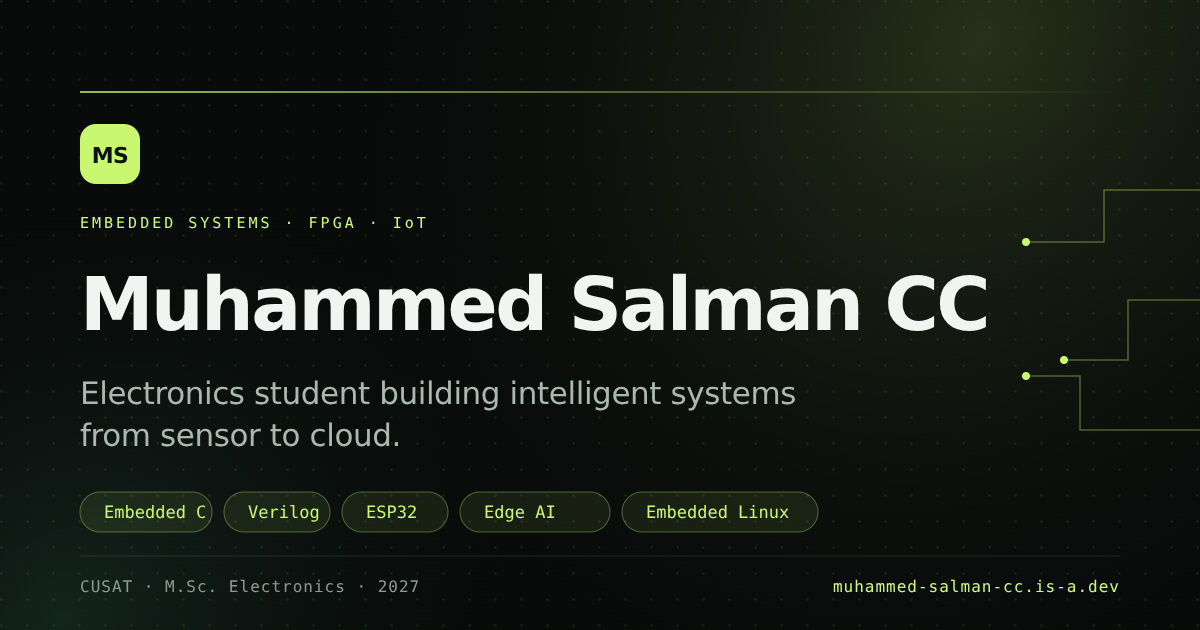
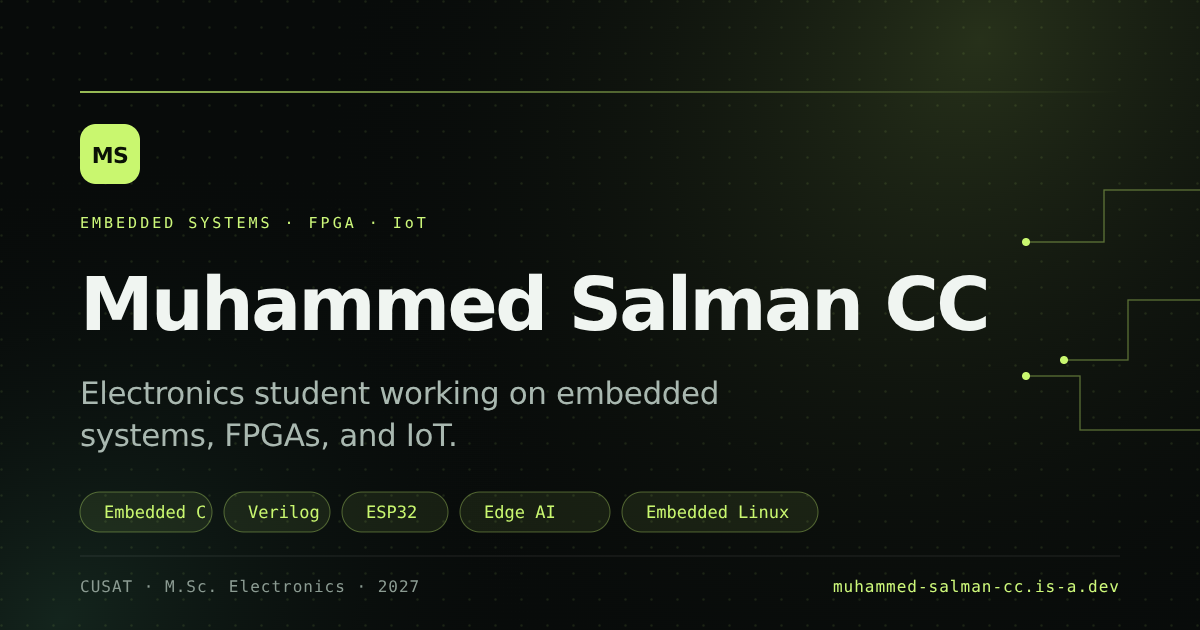
Rewrite copy in plain language and remove em dashes
- Replace every em and en dash in page copy, metadata, artwork, and docs
- Drop marketing adjectives (intelligent, robust, editorial, at-a-glance) in favour of concrete descriptions
- Rewrite hero, section headings, project and experience summaries, and contact copy so they state facts directly
- Fix hero headline underline so it no longer draws a stray line under the preceding words

Changed region(s): [[0.0617, 0.6032, 0.6783, 0.7238]]

diff --git a/src/data/portfolio.ts b/src/data/portfolio.ts
@@ -45,16 +45,16 @@ export const portfolio = {
   phone: '+91 9746707833',
   availability: 'Open to embedded systems opportunities',
   intro:
-    'I design intelligent electronic systems where hardware, firmware, and connected technology work together.',
+    'I work on both sides of a project: sensor front ends, power switching, and the firmware that runs them.',
   profileImage: 'https://i.postimg.cc/k4NKMqzp/file-00000000b38c71f5be0b8b69186cc8e1.png',
   about: [
     'I’m Salman, an M.Sc. Electronics student at Cochin University of Science and Technology, focused on embedded systems, FPGA design, robotics, IoT, and Embedded Linux.',
-    'I enjoy taking ideas from circuit architecture to working firmware—interfacing sensors, controlling power electronics, and building connected systems that solve practical engineering problems.',
-    'My goal is to become an Embedded Systems Engineer specializing in intelligent hardware, Edge AI, FPGA-based systems, and open-source technologies.',
+    'I like taking an idea from circuit architecture to working firmware: interfacing sensors, controlling power electronics, and building systems that solve a practical problem.',
+    'I want to work as an embedded systems engineer, with a focus on Edge AI, FPGA-based systems, and open-source tools.',
   ],
   currentlyExploring: {
     label: 'Currently exploring',
-    body: 'FPGA-based vision pipelines for autonomous robots, and running lightweight inference at the edge.',
+    body: 'How vision pipelines are built on FPGAs for autonomous robots, and how small models run on edge devices.',
     tags: ['Verilog', 'Vivado', 'Edge AI'],
   },
   focusAreas: [
@@ -73,7 +73,7 @@ export const portfolio = {
       icon: 'graduation',
     },
     {
-      label: 'Recognition',
+      label: 'Award',
       value: 'District-level YIP Winner',
       meta: 'Auto hibernate for inverters',
       icon: 'award',
@@ -145,11 +145,11 @@ export const portfolio = {
       label: 'Embedded Systems',
       badge: 'District-level YIP Winner',
       description:
-        'An intelligent inverter battery-management system that disconnects lower-priority AC loads according to battery voltage, extending backup time and protecting batteries from deep discharge.',
+        'An inverter controller that reads battery voltage and sheds lower-priority AC loads before the battery drains. Backup time goes up and deep discharge is avoided.',
       impact: [
-        'Designed the complete hardware and control architecture',
+        'Designed the hardware and control architecture',
         'Built priority-based load logic with configurable thresholds',
-        'Implemented real-time voltage, current, and LCD monitoring',
+        'Added live voltage, current, and LCD readouts',
       ],
       tags: ['Arduino Nano', 'Embedded C', 'ZMPT101B', 'ACS712', 'Relay', '16×2 LCD'],
       image: 'https://i.postimg.cc/mZ6B2DFh/file-00000000bda0722fb460db042afe0207.png',
@@ -158,7 +158,7 @@ export const portfolio = {
       title: 'Smart IoT Energy Meter',
       label: 'Internet of Things',
       description:
-        'A connected energy-monitoring system for remotely tracking electrical usage through cloud dashboards.',
+        'An energy meter that sends voltage and current readings to cloud dashboards, so usage can be checked remotely.',
       impact: [
         'Voltage and current sensing',
         'Remote dashboards with Blynk and ThingSpeak',
@@ -170,11 +170,11 @@ export const portfolio = {
       title: 'Smart TENS Jacket',
       label: 'Healthcare IoT',
       description:
-        'An IoT-enabled wearable integrating TENS therapy with physiological monitoring and GSM communication.',
+        'A wearable that combines TENS therapy with heart-rate monitoring and GSM alerts for the wearer.',
       impact: [
         'Wearable therapeutic electronics',
         'Heart-rate and motion monitoring',
-        'GSM-based alerts and communication',
+        'GSM alerts and messaging',
       ],
       tags: ['Arduino Micro', 'SIM800', 'Heart Rate Sensor', 'Accelerometer', 'TENS'],
     },
@@ -185,7 +185,7 @@ export const portfolio = {
       title: 'IoT Intern',
       org: 'Sparkiit',
       description:
-        'Hands-on development with ESP32, NodeMCU, embedded programming, sensor interfacing, and IoT communication.',
+        'Worked with ESP32 and NodeMCU boards, wrote firmware, and connected sensors to IoT services.',
       tags: ['ESP32', 'NodeMCU', 'Sensor Interfacing', 'IoT'],
       kind: 'work',
     },
@@ -194,7 +194,7 @@ export const portfolio = {
       title: 'FPGA-Based Vision Processing',
       org: 'For Autonomous Robots',
       description:
-        'Exploring FPGA architecture, computer vision, robotics, hardware acceleration, and autonomous systems.',
+        'Seminar on FPGA architecture and vision processing for autonomous robots, including where hardware acceleration helps.',
       tags: ['Verilog', 'FPGA', 'Computer Vision', 'Robotics'],
       kind: 'research',
     },
@@ -203,7 +203,7 @@ export const portfolio = {
       title: 'Content Creator',
       org: 'AiCoN Tech Hub',
       description:
-        'Creating accessible educational content about AI, Linux, programming, cybersecurity, open source, and developer tools.',
+        'I make educational videos and posts about AI, Linux, programming, cybersecurity, and open-source tools.',
       tags: ['AI', 'Linux', 'Open Source', 'Education'],
       kind: 'community',
     },

diff --git a/index.html b/index.html
@@ -29,29 +29,29 @@
         background: #f2f1ea;
       }
     </style>
-    <meta name="description" content="Muhammed Salman CC is an M.Sc. Electronics student focused on embedded systems, IoT, FPGA design, robotics, Embedded Linux, and intelligent hardware." />
+    <meta name="description" content="Muhammed Salman CC is an M.Sc. Electronics student at CUSAT working on embedded systems, FPGA design, IoT, and Embedded Linux." />
     <meta name="author" content="Muhammed Salman CC" />
     <meta name="robots" content="index, follow, max-image-preview:large" />
 
     <meta property="og:type" content="website" />
-    <meta property="og:site_name" content="Muhammed Salman CC — Portfolio" />
+    <meta property="og:site_name" content="Muhammed Salman CC Portfolio" />
     <meta property="og:url" content="https://muhammed-salman-cc.is-a.dev/" />
-    <meta property="og:title" content="Muhammed Salman CC — Embedded Systems & Electronics" />
-    <meta property="og:description" content="Electronics student building embedded systems, IoT devices, and intelligent hardware with Arduino, ESP32, FPGA, and Linux." />
+    <meta property="og:title" content="Muhammed Salman CC | Embedded Systems and Electronics" />
+    <meta property="og:description" content="Electronics student building embedded systems and IoT devices with Arduino, ESP32, FPGAs, and Linux." />
     <meta property="og:image" content="https://muhammed-salman-cc.is-a.dev/og-image.png" />
     <meta property="og:image:width" content="1200" />
     <meta property="og:image:height" content="630" />
     <meta property="og:image:alt" content="Muhammed Salman CC, Electronics and Embedded Systems" />
 
     <meta name="twitter:card" content="summary_large_image" />
-    <meta name="twitter:title" content="Muhammed Salman CC — Embedded Systems & Electronics" />
-    <meta name="twitter:description" content="Electronics student building embedded systems, IoT devices, and intelligent hardware with Arduino, ESP32, FPGA, and Linux." />
+    <meta name="twitter:title" content="Muhammed Salman CC | Embedded Systems and Electronics" />
+    <meta name="twitter:description" content="Electronics student building embedded systems and IoT devices with Arduino, ESP32, FPGAs, and Linux." />
     <meta name="twitter:image" content="https://muhammed-salman-cc.is-a.dev/og-image.png" />
 
     <link rel="icon" type="image/svg+xml" href="/favicon.svg" />
     <link rel="manifest" href="/site.webmanifest" />
     <link rel="canonical" href="https://muhammed-salman-cc.is-a.dev/" />
-    <title>Muhammed Salman CC — Embedded Systems & Electronics</title>
+    <title>Muhammed Salman CC | Embedded Systems and Electronics</title>
 
     <script type="application/ld+json">
       {

diff --git a/src/components/Footer.tsx b/src/components/Footer.tsx
@@ -17,7 +17,7 @@ export function Footer() {
       <div className="container">
         <div className="footer-top">
           <div className="footer-brand">
-            <a className="brand" href="#top" aria-label={`${portfolio.name} — back to top`}>
+            <a className="brand" href="#top" aria-label={`${portfolio.name}, back to top`}>
               <span className="brand-mark" aria-hidden="true">
                 MS
               </span>
@@ -25,7 +25,7 @@ export function Footer() {
                 <span className="brand-name">{portfolio.name}</span>
               </span>
             </a>
-            <p>Electronics student building intelligent systems from sensor to cloud.</p>
+            <p>Electronics student in Kerala. Embedded systems, FPGA design, and IoT.</p>
           </div>
 
           <nav className="footer-nav" aria-label="Footer">
@@ -67,7 +67,7 @@ export function Footer() {
           <p>
             © {new Date().getFullYear()} {portfolio.name}
           </p>
-          <p className="footer-note">Designed &amp; built with React · TypeScript · Vite</p>
+          <p className="footer-note">Built with React, TypeScript, and Vite</p>
           <a href="#top">
             Back to top
             <ArrowUp size={13} aria-hidden="true" />

diff --git a/src/components/Hero.tsx b/src/components/Hero.tsx
@@ -21,7 +21,7 @@ export function Hero() {
           <p className="hero-kicker intro intro-1">Hello, I’m {portfolio.preferredName}.</p>
 
           <h1 id="hero-title" className="intro intro-2">
-            Building smarter systems, <em>one circuit at a time.</em>
+            I build the circuits. <em>I write the firmware.</em>
           </h1>
 
           <p className="hero-copy intro intro-3">{portfolio.intro}</p>
@@ -103,10 +103,10 @@ export function Hero() {
           <span className="scroll-cue-icon" aria-hidden="true">
             <ArrowDown size={14} />
           </span>
-          Scroll to explore
+          Scroll for more
         </a>
         <p className="hero-note" aria-hidden="true">
-          // analog · digital · firmware · cloud
+          Analog · digital · firmware
         </p>
       </div>
     </section>

diff --git a/src/components/Contact.tsx b/src/components/Contact.tsx
@@ -18,12 +18,12 @@ export function Contact() {
             </p>
 
             <h2 id="contact-title">
-              Let’s engineer something <em>meaningful.</em>
+              Let’s build something <em>that works.</em>
             </h2>
 
             <p className="contact-lede">
-              Open to embedded systems opportunities, technical collaborations, and research conversations. The
-              fastest way to reach me is email — I usually reply within a day.
+              I’m open to embedded systems roles, collaborations, and research conversations. Email is the
+              fastest way to reach me, and I usually reply within a day.
             </p>
 
             <div className="contact-actions">

diff --git a/src/components/Projects.tsx b/src/components/Projects.tsx
@@ -35,8 +35,8 @@ export function Projects() {
           id="projects-title"
           index="03"
           label="Selected work"
-          title="Systems built for the real world."
-          lede="Three builds spanning power electronics, connected metering, and wearable healthcare — each taken from circuit design to working firmware."
+          title="Projects that had to work outside the lab."
+          lede="A battery-saving inverter controller, a cloud-connected energy meter, and a wearable therapy jacket. Each one went from schematic to working firmware."
         />
 
         <div className="project-grid">

diff --git a/src/components/About.tsx b/src/components/About.tsx
@@ -7,7 +7,7 @@ export function About() {
     <section id="about" className="section" aria-labelledby="about-title">
       <div className="container split">
         <div className="about-aside">
-          <SectionHeading id="about-title" index="01" label="Profile" title="Electronics first. Always curious." />
+          <SectionHeading id="about-title" index="01" label="Profile" title="Electronics student at CUSAT." />
           <aside className="explore-card reveal" aria-label="Currently exploring">
             <div className="explore-head">
               <Telescope size={15} aria-hidden="true" />

diff --git a/src/components/Skills.tsx b/src/components/Skills.tsx
@@ -13,8 +13,8 @@ export function Skills() {
           id="skills-title"
           index="02"
           label="Technical stack"
-          title="Hardware-minded, software-capable."
-          lede="From firmware and RTL to PCB layout and connected dashboards — a toolkit that crosses the hardware/software boundary."
+          title="The tools I work with."
+          lede="Firmware, RTL, PCB layout, and dashboards. I work on both the hardware and software sides of a project."
         />
 
         <div className="skills-grid">

diff --git a/src/components/Education.tsx b/src/components/Education.tsx
@@ -11,8 +11,8 @@ export function Education() {
           id="education-title"
           index="05"
           label="Education"
-          title="A foundation in electronics."
-          lede="Formal training in analog, digital, and embedded systems — now focused on intelligent hardware and FPGA design."
+          title="Where I studied."
+          lede="Coursework in analog, digital, and embedded systems, now pointed at FPGA design."
         />
 
         <div className="education-grid">

diff --git a/src/components/Experience.tsx b/src/components/Experience.tsx
@@ -17,8 +17,8 @@ export function Experience() {
           id="experience-title"
           index="04"
           label="Experience"
-          title="Learning through engineering."
-          lede="Internships, research seminars, and community work that keep the theory grounded in practice."
+          title="What I've done outside coursework."
+          lede="An internship, a research seminar, and a channel I started."
         />
 
         <ol className="timeline">

diff --git a/src/components/Header.tsx b/src/components/Header.tsx
@@ -80,7 +80,7 @@ export function Header() {
   return (
     <header className={`site-header${scrolled ? ' is-scrolled' : ''}${open ? ' is-open' : ''}`}>
       <div className="container header-inner">
-        <a className="brand" href="#top" aria-label={`${portfolio.name} — home`}>
+        <a className="brand" href="#top" aria-label={`${portfolio.name}, home`}>
           <span className="brand-mark" aria-hidden="true">
             MS
           </span>

diff --git a/src/index.css b/src/index.css
@@ -631,7 +631,11 @@ button {
   text-wrap: balance;
 }
 
-.hero h1 em,
+.hero h1 em {
+  color: var(--accent-text);
+  font-style: normal;
+}
+
 .contact h2 em {
   color: var(--accent-text);
   font-style: normal;
@@ -640,6 +644,8 @@ button {
   text-decoration-thickness: 2px;
   text-underline-offset: 0.12em;
   text-decoration-skip-ink: none;
+  box-decoration-break: clone;
+  -webkit-box-decoration-break: clone;
 }
 
 .hero-copy {
